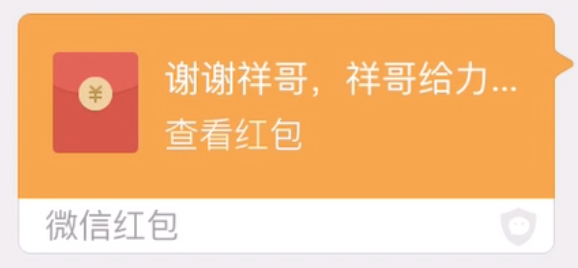
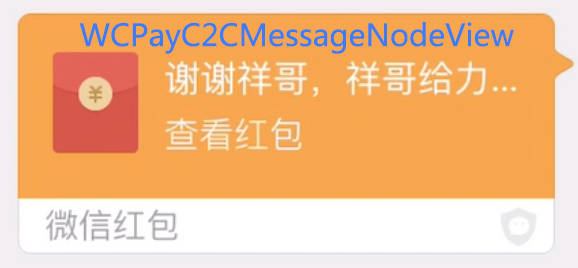
New post & resource.

Changed region(s): [[0.1246, 0.0597, 0.9031, 0.209]]

diff --git a/_posts/2016-03-27-how-to-rob-wechat-red-envelop-automatically.md b/_posts/2016-03-27-how-to-rob-wechat-red-envelop-automatically.md
@@ -168,4 +168,9 @@ p.s optool is a Mac command line app which helps you handle the Mach-O file.You 
 You can found more details on my prior blog.[Debugging with lldb.](http://kangwang1988.github.io/tech/2016/03/27/Debugging-with-lldb.html)
 
 	After sometime of debugging and testing, we will found three classes interested in:
-	
+
+![wechat-red-envelop-nodeview](https://github.com/kangwang1988/kangwang1988.github.io/raw/master/img/wechat-red-envelop-nodeview.png)	
+
+![wechat-red-envelop-homeview](https://github.com/kangwang1988/kangwang1988.github.io/raw/master/img/wechat-red-envelop-homeview.png)
+				
+![wechat-red-envelop-detailcontroller](https://github.com/kangwang1988/kangwang1988.github.io/raw/master/img/wechat-red-envelop-detailcontroller.png)
